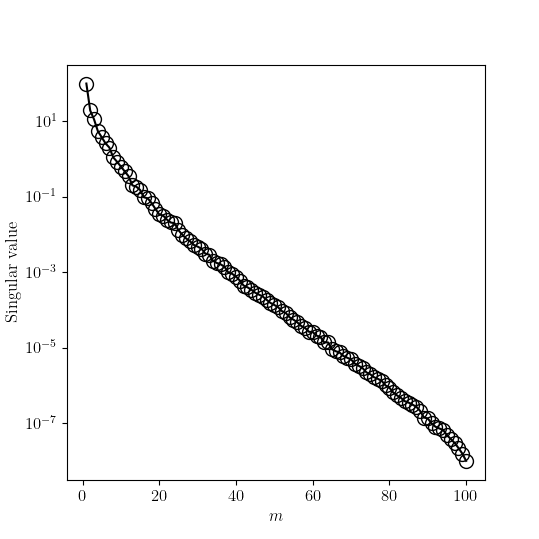
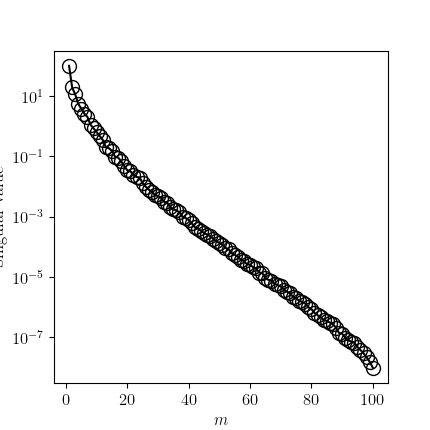
mac

Changed region(s): [[0.0, 0.1209, 0.907, 0.9372], [0.4837, 0.9372, 0.5442, 0.9977]]

diff --git a/pythonNN/2DNaturalConvection/NaturalConvection.py b/pythonNN/2DNaturalConvection/NaturalConvection.py
@@ -401,7 +401,7 @@ if __name__ == '__main__':
     
     from plotting import newfig,savefig    
     import matplotlib.pyplot as plt
-    newfig(width=1)
+    newfig(width=0.8)
     plt.semilogy(np.arange(0,roeqs.sigma.shape[0],2)+1, roeqs.sigma[::2],'-ko')
     plt.xlabel('$m$')
     plt.ylabel('Singular value')    

diff --git a/pythonNN/1DBurges/Net1Dburges.py b/pythonNN/1DBurges/Net1Dburges.py
@@ -228,7 +228,7 @@ if __name__ == '__main__':
         
     from plotting import newfig,savefig
     import matplotlib.pyplot as plt    
-    newfig(width=1)
+    newfig(width=0.8)
     plt.semilogy(np.arange(roeqs.sigma.shape[0])+1, roeqs.sigma,'-ko')
     plt.xlabel('$m$')
     plt.ylabel('Singular value')    

diff --git a/pythonNN/2DLidDriven/LidDriven.py b/pythonNN/2DLidDriven/LidDriven.py
@@ -404,7 +404,7 @@ if __name__ == '__main__':
 
     from plotting import newfig,savefig
     import matplotlib.pyplot as plt    
-    newfig(width=1)
+    newfig(width=0.8)
     plt.semilogy(np.arange(roeqs.sigma.shape[0])+1, roeqs.sigma,'-ko')
     plt.xlabel('$m$')
     plt.ylabel('Singular value')    
